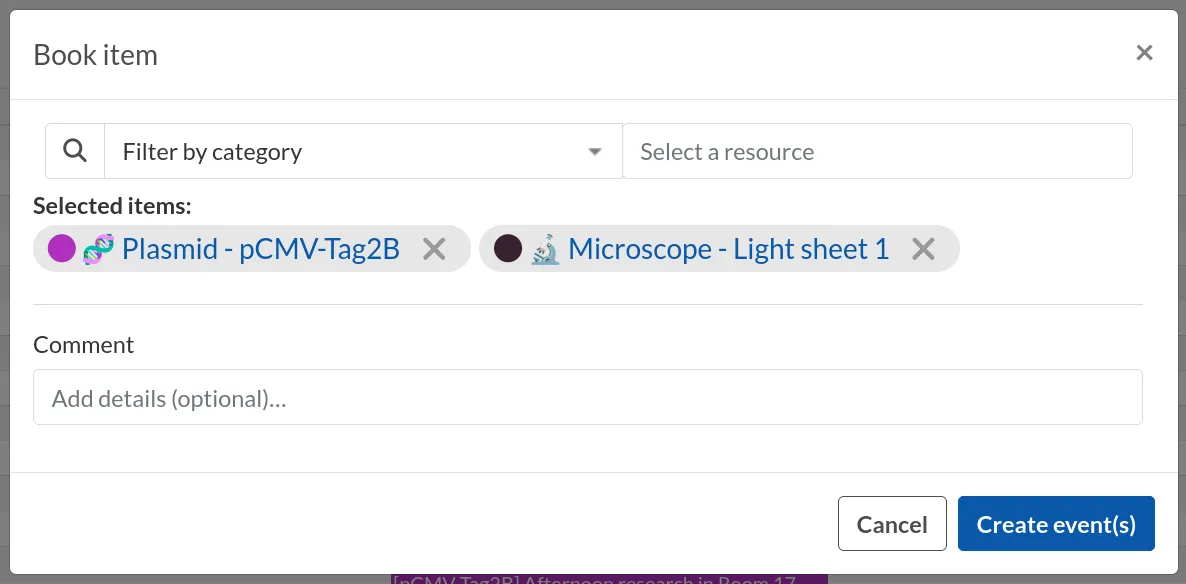
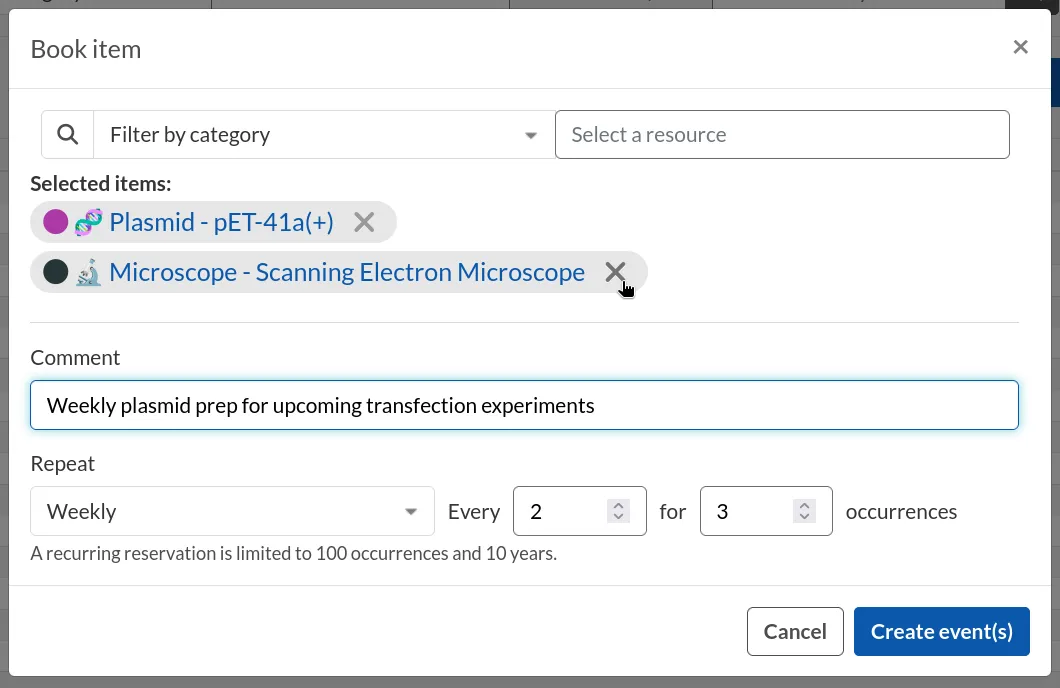
some nicer ordering for those sections. Update screenshots with recurring events, and add tips to explain the behaviour

diff --git a/documentation/docs/usage/user-guide/scheduler.md b/documentation/docs/usage/user-guide/scheduler.md
@@ -7,22 +7,9 @@ title: Scheduler
 
 It is possible to use the scheduler (calendar) to book Resources.
 
-Bookings can repeat daily, weekly, or monthly. Choose the interval and number of occurrences when creating the booking. A recurring booking can include up to 100 reservations over a period of up to 10 years.
+Before proceeding, make sure you have a **bookable resource**. See [Make a resource bookable](./resources#making-a-resource-bookable) section.
 
-A monthly series is rejected if its day does not exist in one of the requested months (for example, January 31 followed by February).
-
-Every occurrence is a normal reservation. Before creating or changing a series, eLabFTW checks every occurrence for resource permissions, booking limits, and conflicts. If one occurrence is invalid, none of the series is changed.
-
-:::tip
-
-When editing or deleting a recurring reservation, you can choose whether the action applies only to that reservation or to the complete series.
-
-**Dragging or resizing a reservation in the calendar changes only that occurrence, not the complete series.**
-
-:::
-
-Before proceeding, make sure you have a bookable resource. See [Make a resource bookable](./resources#making-a-resource-bookable) section.
-Select an item by typing its name in the searchbar.
+Select an item by typing its name in the search bar.
 <figure>
   <img src="/img/scheduler-select-item.webp" width='500' alt="select an item" />
   <figcaption>Select an item to create an event.</figcaption>
@@ -56,6 +43,17 @@ On the scheduler page, the items listed are called Events. Clicking an existing 
 The first line indicates the Title (or Comment) of the event. It is defined by the user when creating or editing the event.
 
 Below are the date of the event, the time slot, and the duration in minutes.
+
+### Recurring events
+
+Bookings can repeat daily, weekly, or monthly. Choose the interval and number of occurrences when creating the booking. A recurring booking can include up to 100 reservations over a period of up to 10 years.
+
+:::warning
+
+A monthly series is rejected if its day does not exist in one of the requested months (for example, January 31 followed by February).
+:::
+
+Every occurrence is a normal reservation. Before creating or changing a series, eLabFTW checks every occurrence for resource permissions, booking limits, and conflicts. If one occurrence is invalid, none of the series is changed.
 
 ### Bindings
 
@@ -100,6 +98,13 @@ Click the `Cancel` button to cancel an event.
 </figure>
 
 You can add a custom message to inform the team members who are connected to this event. You can either send to **Members of the team** or to a list of users who booked this resource in a specific time range.
+
+:::tip
+
+When editing or deleting a recurring reservation, you can choose whether the action applies only to that reservation or to the complete series.
+
+**Dragging or resizing a reservation in the calendar changes only that occurrence, not the complete series.**
+:::
 
 ### Browse events
 
